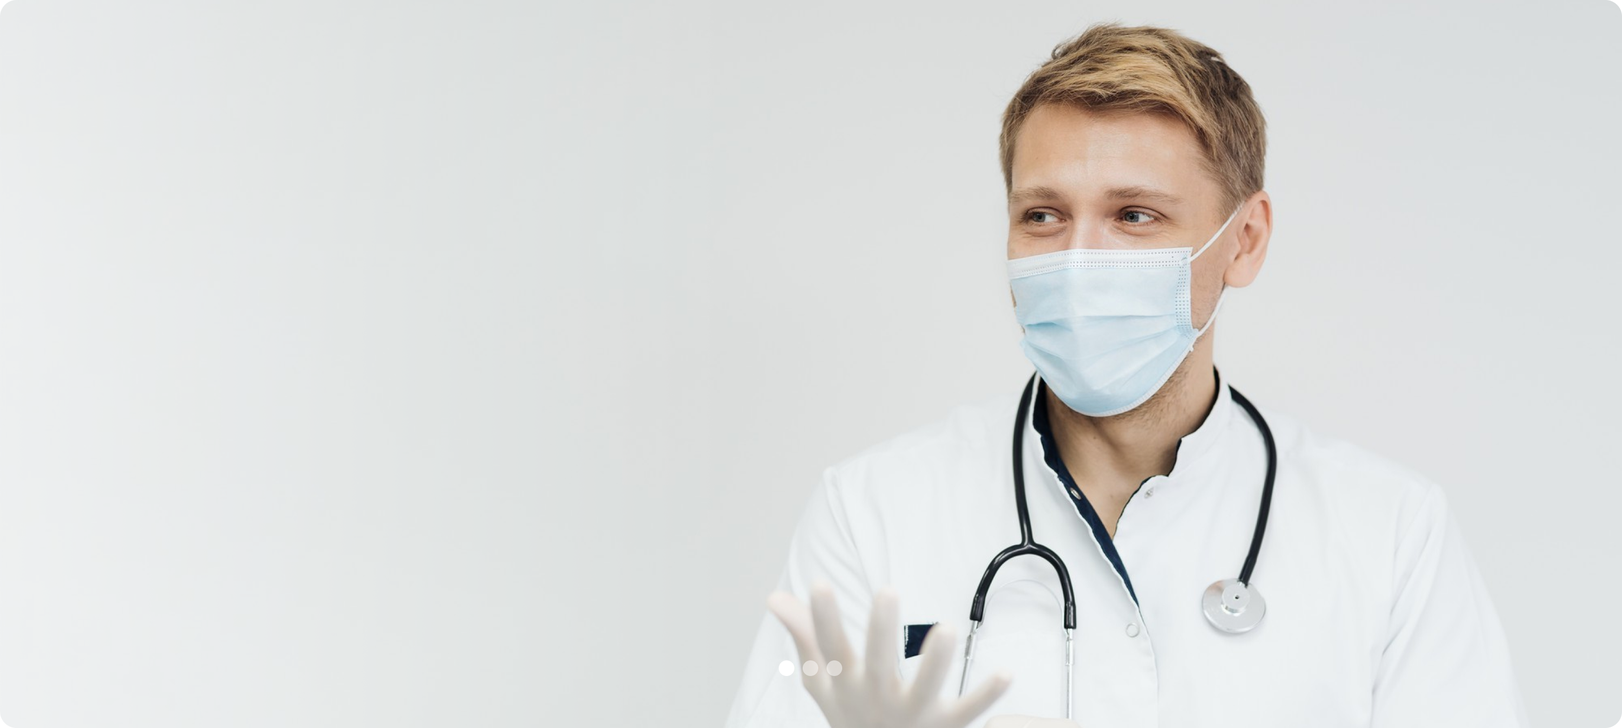
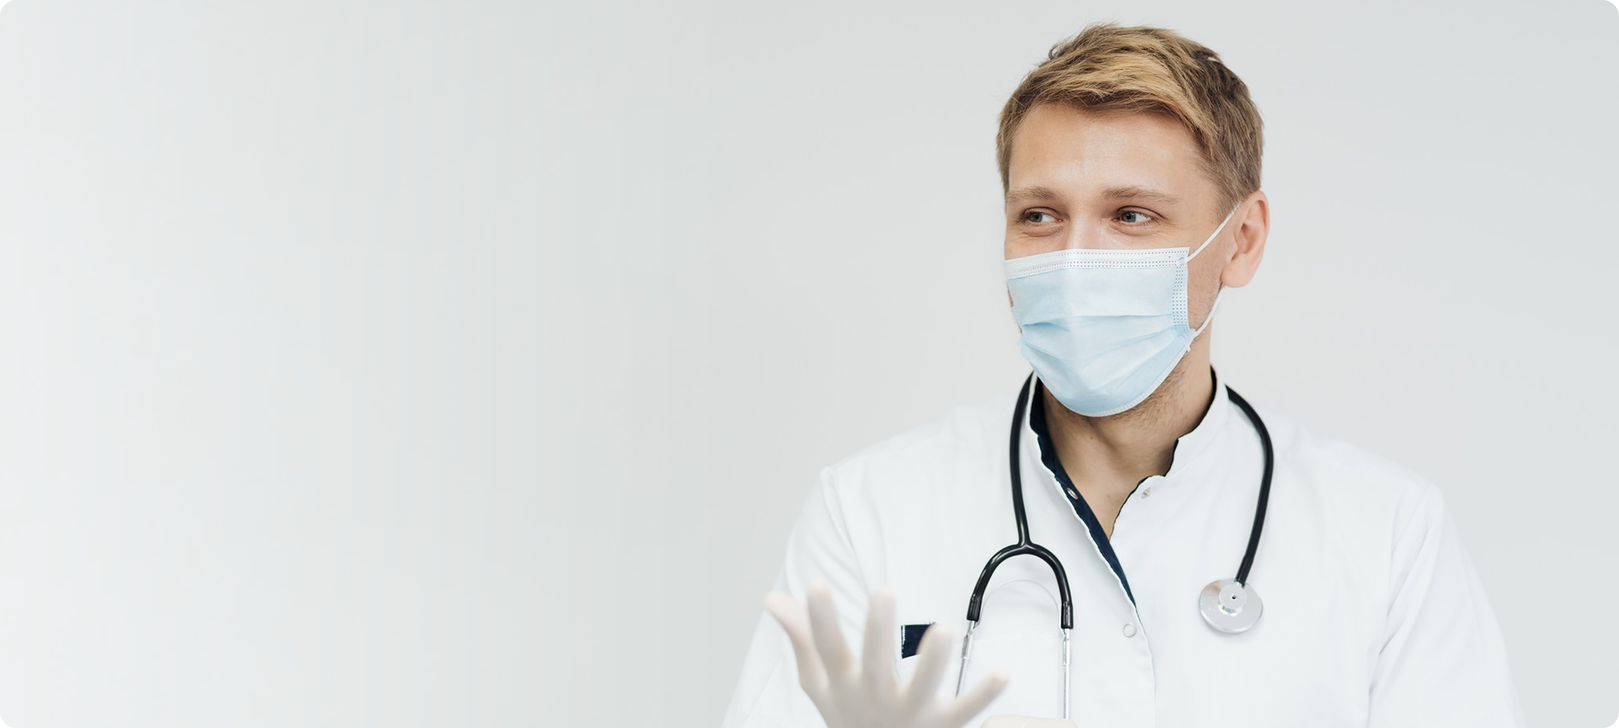
fix-build

diff --git a/src/shared/ui/Icon/MuscleIcon.tsx b/src/shared/ui/Icon/MuscleIcon.tsx
@@ -1,0 +1,34 @@
+export default function MuscleIcon({
+  color = '#094A54',
+  size = 80,
+  style = {},
+  ...props
+}) {
+  return (
+    <svg
+      width={size}
+      height={size}
+      viewBox="0 0 190 190"
+      fill="none"
+      xmlns="http://www.w3.org/2000/svg"
+      style={style}
+      {...props}
+    >
+      <g clipPath="url(#clip0)">
+        <path
+          d="M104.092 2.59843C95.5196 3.78593 87.838 4.97343 87.0216 5.19609C81.1954 6.94023 74.5528 12.0613 66.0548 21.3387C58.67 29.3914 51.5079 35.5887 35.6251 47.6492C22.1544 57.9285 17.961 61.7137 13.3966 67.9109C8.53525 74.4051 5.1583 83.1258 3.5626 93.034C3.26572 94.8894 2.41221 98.1551 1.70713 100.27C0.964942 102.423 0.259864 105.169 0.148536 106.393C-0.185448 109.362 0.630958 110.995 4.19346 114.966C5.67783 116.598 8.3126 119.901 10.0938 122.313C25.3458 143.28 46.3126 159.645 69.6173 168.774C87.6153 175.825 104.055 178.979 122.906 179.016L132.443 179.054L134.373 184.175C135.412 186.995 136.451 189.37 136.637 189.481C136.822 189.63 137.193 189.518 137.416 189.296C137.899 188.813 137.639 188.034 135.041 181.243L133.594 177.532H124.242C101.68 177.495 81.1212 172.819 61.4161 163.282C43.5294 154.598 27.4981 141.796 15.1778 126.358C10.9845 121.089 9.94541 119.604 10.7618 119.938C16.1056 122.239 18.7403 122.833 18.7403 121.72C18.7403 121.386 17.6642 120.829 15.7345 120.161C14.0646 119.604 11.6524 118.528 10.3536 117.786C7.42197 116.042 3.37705 112.071 2.26377 109.77C1.52158 108.175 1.48447 107.841 1.85557 105.762C2.85752 100.307 6.01182 93.7391 9.35166 90.1023C11.2442 88.0242 11.5782 87.2078 10.4278 87.2078C9.75986 87.2078 8.3126 88.618 6.23447 91.2527L5.26963 92.5144L5.5665 90.8445C7.97861 77.9305 13.6935 67.9109 23.4903 59.3758C25.3458 57.7059 31.2462 53.0672 36.5157 49.0594C52.7696 36.702 57.5567 32.5086 70.6935 19.0008C77.6329 11.8758 81.8634 8.72148 86.6876 7.08867C87.9864 6.64336 93.7755 5.67851 100.233 4.825C106.43 4.00859 112.553 3.15508 113.815 2.96953C123.834 1.37383 128.621 2.04179 131.998 5.53008C133.816 7.38554 134.67 9.24101 137.045 16.5145C139.828 25.0125 140.348 27.1648 140.422 30.4305C140.496 35.1434 138.9 36.7391 134.15 36.7391C131.924 36.7391 131.701 36.6648 131.924 36.0711C133.111 33.2508 133.334 31.8035 133.334 27.6473C133.334 23.4539 132.481 17.1824 131.738 15.9949C131.256 15.1414 130.143 15.8094 130.402 16.8113C131.293 20.3738 131.813 25.1238 131.664 28.7605C131.553 32.2117 131.404 33.1395 130.625 34.6609C129.326 37.2215 128.176 37.9637 125.244 38.1492L122.795 38.2977L123.945 36.5164C125.541 33.9187 126.209 30.2449 126.098 24.7527C125.986 20.7078 125.912 20.2254 125.318 20.2254C124.725 20.2254 124.65 20.7449 124.539 25.6062C124.391 31.8406 123.797 34.2527 121.904 36.2937C120.828 37.4812 120.457 37.6668 119.047 37.6297C118.156 37.6297 116.709 37.2215 115.818 36.7762L114.223 35.9227L115.15 34.9578C117.006 32.991 119.418 26.1258 119.047 23.6766C118.861 22.2664 117.859 22.6375 117.525 24.3074C116.783 27.9812 115.67 31.4695 114.817 32.7684C112.367 36.4793 108.656 36.5164 104.352 32.8055C102.83 31.5066 102.422 30.8016 103.201 30.8016C104.129 30.8016 109.844 28.0555 109.844 27.6102C109.844 26.6453 109.102 26.7566 105.428 28.2039C99.7872 30.4676 96.1876 31.284 92.588 31.0984C88.1349 30.8758 85.9825 29.5027 84.7579 26.1629C84.2013 24.6414 83.1251 24.4559 83.1251 25.866C83.1622 28.6121 86.7247 32.0262 90.1017 32.4715C92.9962 32.8797 92.9962 32.8426 90.2501 35.8855C80.9728 46.3133 76.8907 54.6629 72.92 71.4734C70.0255 83.7566 68.9493 86.9109 66.3517 90.9558C64.2735 94.1844 61.7501 96.7078 58.2989 99.0086C54.5138 101.532 50.9142 103.128 44.7169 105.02C41.3771 106.059 40.2267 106.542 40.1153 107.061C40.004 107.655 40.1896 107.692 41.6739 107.507C43.7149 107.21 50.2091 105.057 53.6231 103.536C55.0333 102.905 57.5938 101.458 59.2638 100.345C64.7931 96.6707 70.8048 95.2234 80.3419 95.2234C87.6153 95.2605 90.3985 95.8172 95.7423 98.3777C104.315 102.46 110.363 109.696 114.668 120.977C115.559 123.278 116.227 124.54 116.635 124.614C117.08 124.688 117.266 124.503 117.266 123.946C117.266 122.796 114.854 116.747 112.998 113.333L111.365 110.29L114.223 108.991C120.68 106.059 127.359 104.575 134.15 104.575C146.1 104.538 156.231 108.917 165.916 118.268C168.106 120.384 170.592 123.055 171.445 124.169C172.967 126.136 173.746 126.581 174.229 125.802C174.563 125.245 172.113 122.165 168.254 118.268C165.731 115.708 165.137 114.891 165.545 114.632C167.883 113.073 176.492 108.397 181.65 105.874C185.139 104.167 188.367 102.571 188.85 102.311C189.963 101.755 190.26 101.012 189.481 100.716C188.738 100.419 176.604 106.319 169.293 110.512C166.399 112.182 163.838 113.555 163.652 113.555C163.467 113.555 162.02 112.628 160.424 111.477C146.656 101.569 129.438 100.159 113.332 107.618L110.326 108.991L109.733 108.026C106.43 102.571 97.7091 96.5223 90.3614 94.5926C84.5353 93.034 74.4415 93.2195 67.5763 95.0008L64.9415 95.6687L66.0177 94.3328C69.506 89.8426 70.9903 86.0574 74.0333 73.5516C75.4063 68.0965 77.0021 62.1219 77.6329 60.3035C80.4903 51.9168 85.2403 43.9383 91.5489 36.9246L95.2228 32.8426L98.0802 32.2488L100.938 31.6922L102.311 33.1023C105.242 36.1082 109.176 37.8523 111.514 37.1844C112.404 36.9246 113.035 37.073 114.705 37.9637C118.416 39.8562 125.912 40.45 128.807 39.0398C130.217 38.3719 130.848 38.2605 132.74 38.4461C137.268 38.9285 140.83 37.1473 141.721 33.9559C142.723 30.282 142.055 26.4598 138.566 15.8836C135.412 6.34648 134.002 4.15703 129.697 1.96758C127.693 0.965622 124.762 0.371872 121.979 0.408981C120.717 0.446091 112.664 1.41093 104.092 2.59843Z"
+          fill={color}
+        />
+        <path
+          d="M46.2013 141.424C45.8302 142.018 46.9064 143.02 50.8028 145.617C57.631 150.182 65.3497 153.447 72.9942 155.006C77.3731 155.896 88.6173 155.896 92.9591 155.006C97.3009 154.115 103.572 152.074 103.795 151.48C104.24 150.404 103.275 150.33 100.567 151.258C89.0255 155.191 75.5548 155.08 64.4591 150.887C60.4884 149.402 54.1056 145.988 50.4689 143.391C46.9435 140.941 46.6095 140.756 46.2013 141.424Z"
+          fill={color}
+        />
+      </g>
+      <defs>
+        <clipPath id="clip0">
+          <rect width="190" height="190" fill="white" />
+        </clipPath>
+      </defs>
+    </svg>
+  );
+}

diff --git a/src/shared/ui/Icon/PacifierIcon.tsx b/src/shared/ui/Icon/PacifierIcon.tsx
@@ -1,0 +1,31 @@
+export default function PacifierIcon({
+  color = '#094A54',
+  size = 80,
+  style = {},
+  ...props
+}) {
+  return (
+    <svg
+      width={size}
+      height={size}
+      viewBox="0 0 190 190"
+      fill="none"
+      xmlns="http://www.w3.org/2000/svg"
+      style={style}
+      {...props}
+    >
+      <path
+        d="M138.232 6.30783C132.035 7.27267 124.873 10.1672 119.566 13.8039C115.521 16.5871 110.363 21.8938 107.506 26.1985C103.09 32.841 101.531 37.591 98.9706 51.9153L98.4881 54.6613L96.6327 51.7297C93.8866 47.4621 91.66 43.3801 89.5819 38.9641C85.0174 29.093 80.2674 22.7844 74.6639 19.0363C70.953 16.5871 63.4198 14.4719 58.3729 14.4719C55.4042 14.4719 50.951 15.4738 48.3534 16.7727C43.826 18.9992 40.0409 24.1574 38.4081 30.4289C37.5546 33.6203 37.2577 42.6008 37.8143 46.9797C38.7421 53.882 42.2303 66.3137 45.7186 75.1457C47.7967 80.4153 50.8397 86.8352 53.6229 91.9934C54.9588 94.4055 56.035 96.4836 56.035 96.5578C56.035 96.632 54.5878 96.4094 52.8065 96.0383C48.7245 95.2219 41.1171 95.1477 36.7381 95.927C26.2733 97.7824 16.3651 103.609 9.98229 111.698C-1.0392 125.652 -3.04311 143.65 4.67564 159.31C15.4374 181.204 42.5272 190.333 64.3104 179.386C74.1073 174.45 81.6034 166.286 85.6854 156.007C87.8006 150.738 88.7655 145.654 88.7655 139.642L88.8026 134.78L92.7362 137.749C108.916 149.995 128.584 159.347 144.541 162.39C149.217 163.28 157.789 163.318 161.055 162.427C170.963 159.755 176.381 152.185 175.156 142.722C174.043 133.964 169.07 126.95 157.715 118.081C152.445 113.962 147.25 109.509 142.314 104.907L139.346 102.124L140.459 101.679C141.053 101.456 144.058 100.677 147.139 99.9719C172.187 94.257 185.027 82.9758 189.146 63.0852C190.074 58.5949 190.074 47.7961 189.146 43.4172C185.213 24.8625 172.855 11.8371 154.783 7.16135C150.775 6.12228 142.24 5.71408 138.232 6.30783ZM152.482 8.34885C161.277 10.0188 170.74 15.2883 176.455 21.5969C184.322 30.3547 188.256 40.8938 188.219 53.2512C188.182 72.0285 180.017 85.1653 163.541 92.9582C159.051 95.1106 154.449 96.5949 146.953 98.3391C134.558 101.234 127.471 104.648 119.64 111.587C117.265 113.702 116.82 114.519 117.822 114.89C118.156 115.038 119.344 114.222 121.051 112.626C125.17 108.804 132.035 104.573 136.303 103.2L137.676 102.718L142.24 106.986C147.695 112.107 150.998 114.927 157.269 119.788C162.131 123.611 166.695 128.064 168.81 131.107C175.045 140.198 175.267 150.255 169.293 156.193C165.619 159.792 160.646 161.462 153.41 161.462C143.242 161.499 132.109 158.234 117.08 150.849C98.1171 141.497 82.0116 128.546 68.8378 112.07C54.996 94.7395 43.4549 69.9133 39.8553 49.7258C38.9647 44.716 38.9647 35.6613 39.8553 31.7278C41.2284 25.7531 44.2713 20.9289 48.1678 18.6281C54.4393 14.9543 66.6483 15.7707 73.4764 20.2981C79.1542 24.0832 83.6444 29.9836 87.9491 39.3352C90.0643 43.9738 92.6991 48.7238 95.6307 53.2141C98.3397 57.3332 98.2655 56.7766 96.41 62.7141C94.6659 68.1692 92.2909 72.511 89.4335 75.4055C87.6522 77.1867 86.5389 77.966 85.4256 78.2629C84.2753 78.5969 83.8671 78.8938 83.8671 79.4133C83.8671 80.2668 84.7948 80.3781 86.3534 79.7102C92.7362 76.9641 97.4862 68.132 100.195 53.9563C103.609 36.2551 105.205 31.6906 110.4 24.8625C112.553 22.0422 118.082 16.8098 120.902 14.8801C126.06 11.3918 133.519 8.5715 139.531 7.82932C143.019 7.384 148.549 7.60666 152.482 8.34885ZM54.0311 97.9309L57.4452 98.7473L60.5624 103.46C66.871 112.923 74.7753 122.2 82.3827 129.066C87.2811 133.482 87.1698 133.222 87.1698 139.753C87.244 151.331 82.7909 161.907 74.4042 170.183C63.0487 181.353 45.9042 185.286 30.8749 180.202C6.56822 171.927 -5.0099 144.837 5.78893 121.421C7.64439 117.376 10.1678 113.777 13.8417 109.954C20.7811 102.792 29.0936 98.5988 39.5213 97.0774C42.3788 96.6692 50.7655 97.1516 54.0311 97.9309Z"
+        fill={color}
+      />
+      <path
+        d="M47.7597 39.1863C46.9433 40.0398 47.8339 50.282 49.3554 57.3328C53.0293 74.2547 65.3496 98.3387 78.1523 113.554C81.4179 117.413 88.9511 124.909 92.9589 128.212C106.059 139.122 121.978 147.026 137.008 150.106C142.982 151.331 152.223 152.11 153.039 151.442C153.336 151.182 153.484 150.737 153.373 150.44C153.225 150.032 152.371 149.921 149.662 149.921C133.668 149.921 112.738 141.682 96.5585 129.028C91.8085 125.317 84.1269 117.97 80.1933 113.405C67.5761 98.6727 55.9609 76.7781 51.582 59.3738C50.0976 53.4363 49.7265 51.0984 49.207 44.7527C48.8359 39.6688 48.5019 38.4441 47.7597 39.1863Z"
+        fill={color}
+      />
+      <path
+        d="M48.5388 104.907C47.3884 106.206 45.6814 109.694 44.9021 112.292L44.1228 114.927L40.7087 115.149C33.5095 115.557 27.4607 119.194 23.4157 125.429C21.2263 128.805 20.3728 131.663 20.1501 136.19C19.9275 140.755 20.4841 143.501 22.4138 147.509C26.4958 155.821 36.4411 161.054 45.4216 159.569C55.8493 157.899 63.197 150.477 64.6443 140.272C65.4236 134.743 63.3083 126.171 61.5642 127.915C61.3786 128.1 61.5271 129.102 62.0466 130.438C62.9001 132.813 63.3825 138.454 62.9372 140.829C62.6404 142.388 62.5661 142.388 58.2614 140.346C54.8103 138.677 50.1345 134.186 48.3532 130.809C44.7907 124.018 44.531 116.634 47.5368 109.917C48.0935 108.655 48.9099 107.134 49.3181 106.54C50.654 104.684 49.9489 103.311 48.5388 104.907ZM43.9001 120.307C44.2341 126.95 46.3493 131.96 50.7282 136.561C53.7712 139.827 56.5173 141.571 61.5271 143.464L62.3435 143.798L61.0446 146.544C60.0798 148.548 59.0036 149.995 57.0368 151.925C52.3982 156.526 47.7224 158.307 41.1911 157.973C23.7868 157.12 15.2146 136.264 27.0525 123.499C31.0974 119.083 36.1443 116.708 41.7849 116.559L43.6775 116.522L43.9001 120.307Z"
+        fill={color}
+      />
+    </svg>
+  );
+}

diff --git a/src/shared/ui/Icon/CandleIconV2.tsx b/src/shared/ui/Icon/CandleIconV2.tsx
@@ -1,0 +1,27 @@
+export default function CandleIconV2({
+  color = '#094A54',
+  size = 80,
+  style = {},
+  ...props
+}) {
+  return (
+    <svg
+      width={size}
+      height={size}
+      viewBox="0 0 90 90"
+      fill="none"
+      xmlns="http://www.w3.org/2000/svg"
+      style={style}
+      {...props}
+    >
+      <path
+        d="M38.172 8.28125C37.8439 8.48438 37.6251 8.78125 37.5001 9.17188C37.422 9.5 37.2345 12.2969 37.1095 15.3906C36.9689 19.0156 36.797 21.3438 36.6564 21.9531C36.047 24.4375 34.7814 26.2656 32.797 27.4688C30.8282 28.6562 29.2189 32.125 29.2189 35.1562C29.2189 36.2812 29.1876 36.3594 28.8282 36.5312C28.3126 36.7656 28.2189 37.2344 28.3282 39.125C28.5157 42.6719 30.0939 45.4531 32.5782 46.6406C33.9064 47.2656 35.5157 47.5781 37.5001 47.5781C39.1407 47.5781 39.3751 47.5469 40.2189 47.1406C40.7189 46.9062 41.5782 46.3906 42.1251 46C43.4064 45.0938 44.0314 44.8438 45.0001 44.8438C45.9689 44.8438 46.5939 45.0938 47.8751 46C48.422 46.3906 49.2814 46.9062 49.7814 47.1406C50.6251 47.5469 50.8595 47.5781 52.5001 47.5781C57.1876 47.5781 59.9688 45.7812 61.1876 41.9844C61.7032 40.3594 61.9063 37.4219 61.5313 36.8438C61.4063 36.6406 61.2501 36.0156 61.1876 35.4531C60.9532 33.0938 59.9689 30.4531 58.7814 28.9531C58.422 28.5 57.6095 27.7812 56.9689 27.3594C55.5157 26.375 54.797 25.5469 54.047 23.9844C53.172 22.1406 53.0157 21.0781 52.8126 15.0781C52.7189 12.1562 52.5626 9.54688 52.4845 9.26562C52.3907 8.98438 52.1095 8.57812 51.8595 8.35938L51.3751 7.96875H45.0314C39.0001 7.96875 38.6407 7.98438 38.172 8.28125ZM51.2657 9.3125C51.4064 9.48438 51.5157 10.9062 51.6564 14.5781C51.8907 20.5781 51.9376 21.25 52.2657 22.5312C52.8907 24.9688 54.2032 26.8281 56.3751 28.3281C57.1564 28.8594 57.7501 29.4375 58.1407 30C59.047 31.3125 59.797 33.4531 60.0782 35.4219L60.1876 36.25H59.6407C58.8439 36.25 56.6876 35.8125 55.3282 35.3906C53.7657 34.8906 52.0939 34.0156 49.7501 32.4844C45.9064 29.9688 44.0939 29.9688 40.1876 32.5156C36.9376 34.6562 35.0939 35.4531 32.2032 36C30.2189 36.375 30.3126 36.4062 30.3126 35.2656C30.3126 33.9062 30.6876 32.3125 31.297 31.0156C31.9845 29.5938 32.4532 29.0469 33.8439 28.1094C35.7501 26.8281 37.1407 24.75 37.7345 22.3125C37.9532 21.4531 38.422 13.3125 38.4376 10.3594C38.4376 8.98438 38.0782 9.0625 44.9845 9.0625C50.3282 9.0625 51.0782 9.09375 51.2657 9.3125ZM46.6876 32C47.0939 32.1562 48.2032 32.8281 49.1564 33.4844C51.172 34.875 53.1564 35.8906 54.9689 36.4688C56.3282 36.8906 58.5939 37.3438 59.4376 37.3438C60.5157 37.3438 60.6251 37.4531 60.6251 38.4688C60.6251 40.7344 59.7501 43.1875 58.4689 44.5C57.5314 45.4531 56.6407 45.875 54.7345 46.2812C52.047 46.8281 50.3595 46.5 48.4064 45.0156C47.0939 44.0312 46.3439 43.75 45.0001 43.75C43.6564 43.75 42.9064 44.0312 41.5939 45.0156C41.1407 45.375 40.3595 45.8438 39.8751 46.0625C39.0939 46.4375 38.797 46.4844 37.422 46.4688C33.797 46.4375 31.5001 45.25 30.3282 42.7656C29.7814 41.625 29.3751 39.7656 29.3751 38.4531V37.5156L30.1251 37.4375C34.5782 36.8906 37.297 35.9062 40.7814 33.5156C41.7032 32.8906 42.8282 32.2344 43.297 32.0625C44.3595 31.6562 45.7032 31.625 46.6876 32Z"
+        fill={color}
+      />
+      <path
+        d="M30.6406 48.6563C30.5469 48.7656 30.3125 49.4219 30.125 50.0938C29.6406 51.9219 29.6406 54.6563 30.125 56.25C30.7969 58.3438 31.4687 59.4531 34.2812 63.0938C37.2344 66.8906 38.3125 68.8594 39.0781 71.7188C39.375 72.8125 39.4375 73.4844 39.4375 75.4688C39.4531 76.7969 39.3906 78.5625 39.3125 79.3906L39.1719 80.8906L39.6562 81.4219L40.125 81.9531L44.9219 82L49.7031 82.0469L50.2187 81.5313L50.7344 81.0156L50.8281 78.4375C50.9687 74.3594 51.8125 71.6094 55.3125 63.9063C57.1406 59.8906 58.1094 57.4688 58.6562 55.5156C59.4219 52.8438 59.8906 49.1094 59.5312 48.6719C59.2344 48.3125 58.8437 48.3906 58.3437 48.9219C57.1875 50.1563 54.9219 50.8125 51.7969 50.8281C49.7969 50.8438 49.4531 50.8125 47.7656 50.3438C45.5 49.7344 44.5 49.7031 42.8125 50.25C38.9844 51.4531 33.0469 50.7344 31.6875 48.9063C31.3281 48.4063 30.9219 48.3125 30.6406 48.6563ZM34.2969 51.4844C37.0781 52.2031 40.4219 52.1406 43.1094 51.3281C43.8437 51.1094 44.6719 50.9375 44.9687 50.9375C45.2812 50.9375 46.5781 51.1875 47.875 51.5C50.1406 52.0469 50.3125 52.0625 52.2656 51.9844C54.5781 51.875 56.3125 51.5 57.5937 50.7969L58.4375 50.3438V50.9531C58.4375 51.7188 58.0781 53.5 57.5625 55.2813C57 57.2188 56.125 59.4219 54.3281 63.3594C50.7344 71.2813 49.6875 74.75 49.6875 78.6563C49.6875 79.9375 49.625 80.625 49.5 80.75C49.3594 80.8906 48.1406 80.9375 44.9844 80.9375C41.2656 80.9375 40.6406 80.9063 40.4531 80.6875C40.2969 80.5 40.2969 80.1406 40.4375 78.8594C41.125 72.9844 39.9531 68.7188 36.4219 64.0781C35.7656 63.2188 34.7031 61.8281 34.0625 60.9844C31.6562 57.8438 30.875 55.9688 30.875 53.3594C30.875 52.5 30.9687 51.4375 31.0781 51L31.2656 50.2031L32.3125 50.7188C32.8906 51.0156 33.7812 51.3594 34.2969 51.4844Z"
+        fill={color}
+      />
+    </svg>
+  );
+}

diff --git a/src/shared/ui/Icon/PencilRulerIconV2.tsx b/src/shared/ui/Icon/PencilRulerIconV2.tsx
@@ -1,0 +1,47 @@
+export default function PencilRulerIconV2({
+  color = '#094A54',
+  size = 80,
+  style = {},
+  ...props
+}) {
+  return (
+    <svg
+      width={size}
+      height={size}
+      viewBox="0 0 90 90"
+      fill="none"
+      xmlns="http://www.w3.org/2000/svg"
+      style={style}
+      {...props}
+    >
+      <path
+        opacity="0.854"
+        fillRule="evenodd"
+        clipRule="evenodd"
+        d="M71.0046 13.656C71.2127 13.6264 71.4104 13.6594 71.5979 13.7549C73.1886 15.2794 74.7046 16.8614 76.1462 18.501C74.548 21.1372 73.1307 23.8727 71.8945 26.7078C71.4332 27.3669 70.9716 28.0262 70.5103 28.6853C62.699 36.4966 54.8877 44.3078 47.0764 52.1191C45.4823 53.2461 43.7684 54.1688 41.9348 54.8877C35.7386 61.0839 29.5422 67.2803 23.346 73.4765C21.4744 74.4398 19.6946 74.2751 18.0066 72.9822C16.9219 73.968 15.8671 74.9898 14.8425 76.0473C14.3986 76.0088 14.036 75.778 13.7549 75.3552C13.623 75.2233 13.623 75.0916 13.7549 74.9597C14.8125 73.9351 15.8343 72.8803 16.8201 71.7956C15.5764 70.1001 15.4117 68.3203 16.3257 66.4563C22.5219 60.2601 28.7183 54.0636 34.9146 47.8674C35.6334 46.0338 36.5561 44.3199 37.6831 42.7258C45.5602 34.8487 53.4376 26.9714 61.3147 19.0942C64.671 17.4798 67.9009 15.6671 71.0046 13.656ZM70.8069 15.6335C72.044 16.5402 73.1645 17.5951 74.1687 18.7976C73.6085 19.7864 73.048 20.7751 72.4878 21.7639C71.0046 20.2807 69.5215 18.7976 68.0383 17.3144C69.0067 16.7987 69.9295 16.2385 70.8069 15.6335ZM66.4563 18.0066C68.2622 19.7134 70.042 21.4602 71.7957 23.2471C71.2321 24.605 70.5399 25.8904 69.7192 27.1033C61.6386 35.5135 53.3658 43.7203 44.9011 51.7236C43.8884 52.2465 42.8666 52.7409 41.8359 53.2068C40.0892 51.46 38.3422 49.7131 36.5955 47.9663C37.1428 46.7066 37.7691 45.4871 38.4741 44.3078C46.6208 35.8317 54.9593 27.5589 63.49 19.4897C64.497 18.9863 65.4857 18.4919 66.4563 18.0066ZM35.4089 49.4494C37.1053 50.8484 38.7203 52.3643 40.2539 53.9978C40.3858 54.1297 40.3858 54.2614 40.2539 54.3933C34.5849 60.0623 28.9161 65.7311 23.2471 71.4001C21.632 69.7851 20.0172 68.1702 18.4021 66.5552C24.1109 60.8794 29.7799 55.1774 35.4089 49.4494ZM17.2156 68.0383C18.8486 69.3413 20.3648 70.7914 21.7639 72.3889C19.7431 72.5797 18.3258 71.7229 17.5122 69.8181C17.285 69.246 17.1861 68.6527 17.2156 68.0383Z"
+        fill={color}
+      />
+      <path
+        opacity="0.864"
+        fillRule="evenodd"
+        clipRule="evenodd"
+        d="M57.5574 27.6965C59.0995 29.1397 60.6156 30.6229 62.1057 32.146C60.2901 33.9946 58.4445 35.8072 56.5686 37.5842C55.0524 36.2 53.6023 34.7498 52.218 33.2336C54.002 31.3839 55.7817 29.5382 57.5574 27.6965ZM57.5574 29.8718C56.5429 30.9854 55.4881 32.073 54.3933 33.1348C55.1513 33.8928 55.9095 34.6509 56.6675 35.4089C57.7551 34.3213 58.8428 33.2336 59.9304 32.146C59.1653 31.3477 58.3743 30.5897 57.5574 29.8718Z"
+        fill={color}
+      />
+      <path
+        opacity="0.807"
+        fillRule="evenodd"
+        clipRule="evenodd"
+        d="M51.2292 35.6067C52.3343 36.3813 53.3231 37.3042 54.1956 38.3752C51.6906 41.0119 49.1198 43.5827 46.4832 46.0876C45.4944 45.2308 44.5715 44.3079 43.7146 43.3191C46.2237 40.7441 48.7286 38.1733 51.2292 35.6067ZM51.427 37.782C49.7202 39.5879 47.9734 41.3677 46.1865 43.1213C46.0876 43.5499 46.2524 43.7146 46.6809 43.6157C48.4607 41.8359 50.2405 40.0562 52.0203 38.2764C51.8476 38.0697 51.6499 37.905 51.427 37.782Z"
+        fill={color}
+      />
+      <path
+        opacity="0.847"
+        fillRule="evenodd"
+        clipRule="evenodd"
+        d="M33.2337 55.3821C33.8562 55.5747 34.2187 55.9702 34.3213 56.5686C32.4427 58.4473 30.564 60.3259 28.6854 62.2046C28.2414 62.166 27.8789 61.9352 27.5977 61.5125C27.4658 61.3805 27.4658 61.2488 27.5977 61.1169C29.5163 59.2314 31.395 57.3197 33.2337 55.3821Z"
+        fill={color}
+      />
+    </svg>
+  );
+}

diff --git a/src/shared/ui/Icon/DocumentPenIconV2.tsx b/src/shared/ui/Icon/DocumentPenIconV2.tsx
@@ -1,0 +1,54 @@
+export default function DocumentPenIconV2({
+  color = '#094A54',
+  size = 80,
+  style = {},
+  ...props
+}) {
+  return (
+    <svg
+      width={size}
+      height={size}
+      viewBox="0 0 90 90"
+      fill="none"
+      xmlns="http://www.w3.org/2000/svg"
+      style={style}
+      {...props}
+    >
+      <path
+        opacity="0.917"
+        fillRule="evenodd"
+        clipRule="evenodd"
+        d="M73.5645 2.9004C81.0333 2.63272 85.926 6.03117 88.2422 13.0957C89.4205 18.971 87.692 23.805 83.0567 27.5977C69.9316 39.4335 56.8067 51.2696 43.6817 63.1055C43.1264 63.6472 42.482 64.0575 41.7481 64.3359C41.045 64.4532 40.3418 64.4532 39.6387 64.3359C39.1054 64.0944 38.5781 63.9186 38.0567 63.8086C33.457 69.1114 28.8575 74.414 24.2579 79.7168C21.4883 82.7278 18.1776 84.925 14.3262 86.3086C10.3099 87.5333 6.55991 87.0059 3.07622 84.7266C1.33337 83.4066 0.83532 81.7367 1.58208 79.7168C10.2491 70.874 18.9795 62.0849 27.7735 53.3496C27.6133 52.9054 27.4376 52.4366 27.2461 51.9434C26.9652 50.6547 27.1996 49.4828 27.9493 48.4277C40.6554 34.4111 53.3409 20.378 66.0059 6.32813C68.22 4.48763 70.7397 3.34506 73.5645 2.9004ZM73.2129 4.48243C79.5894 4.04228 84.0133 6.7376 86.4844 12.5684C87.9172 17.4721 86.8334 21.7201 83.2325 25.3125C69.469 37.6107 55.758 49.9741 42.0997 62.4024C41.2484 62.9007 40.3694 62.9592 39.4629 62.5781C35.9767 59.0919 32.4902 55.6054 29.004 52.1192C28.4181 51.2988 28.4181 50.4786 29.004 49.6582C41.8003 35.3967 54.6617 21.1876 67.5879 7.03126C69.2851 5.75419 71.1602 4.90457 73.2129 4.48243ZM28.9161 54.4043C31.6053 57.0055 34.2712 59.6422 36.9141 62.3145C31.9005 68.6222 26.5977 74.7454 21.0059 80.6836C18.3924 83.0451 15.3454 84.5686 11.8653 85.2539C8.46863 85.8597 5.56824 84.9514 3.16411 82.5293C2.68027 81.8555 2.62169 81.1524 2.98833 80.4199C11.6663 71.7713 20.3089 63.0993 28.9161 54.4043Z"
+        fill={color}
+      />
+      <path
+        opacity="0.892"
+        fillRule="evenodd"
+        clipRule="evenodd"
+        d="M45.2637 37.3535C45.4486 37.3273 45.6244 37.3565 45.791 37.4414C48.5742 40.2246 51.3575 43.0079 54.1406 45.791C54.094 46.3746 53.8012 46.8434 53.2617 47.1973C50.3028 44.2384 47.3437 41.2792 44.3848 38.3203C44.714 38.0208 45.007 37.6986 45.2637 37.3535Z"
+        fill={color}
+      />
+      <path
+        opacity="0.885"
+        fillRule="evenodd"
+        clipRule="evenodd"
+        d="M40.5176 42.0996C40.7675 42.1363 41.0019 42.2242 41.2207 42.3633C43.9406 45.0831 46.6652 47.8078 49.3945 50.5371C49.3479 51.1207 49.0551 51.5895 48.5156 51.9434C45.5567 48.9844 42.5976 46.0253 39.6387 43.0664C39.9679 42.7669 40.2609 42.4447 40.5176 42.0996Z"
+        fill={color}
+      />
+      <path
+        opacity="0.956"
+        fillRule="evenodd"
+        clipRule="evenodd"
+        d="M35.7715 46.8457C35.9564 46.8195 36.1322 46.8487 36.2988 46.9336C39.082 49.7167 41.8653 52.5001 44.6484 55.2832C44.6019 55.8668 44.309 56.3356 43.7695 56.6895C40.8106 53.7305 37.8515 50.7714 34.8926 47.8125C35.2218 47.513 35.5148 47.1908 35.7715 46.8457Z"
+        fill={color}
+      />
+      <path
+        opacity="0.934"
+        fillRule="evenodd"
+        clipRule="evenodd"
+        d="M23.6425 64.7754C26.2819 65.0749 27.19 66.4812 26.3671 68.9941C23.3546 72.1825 20.2784 75.3173 17.1386 78.3984C15.0679 79.7391 13.5152 79.2997 12.4804 77.0801C12.2855 76.1752 12.4613 75.3548 13.0078 74.6191C16.0839 71.543 19.1601 68.4668 22.2363 65.3906C22.7035 65.1308 23.1723 64.9257 23.6425 64.7754ZM23.4668 66.3574C20.3674 69.5447 17.2327 72.7087 14.0625 75.8496C13.8545 77.3712 14.4698 77.8693 15.9082 77.3438C18.9258 74.3261 21.9433 71.3087 24.9609 68.291C25.3712 66.9709 24.8732 66.3263 23.4668 66.3574Z"
+        fill={color}
+      />
+    </svg>
+  );
+}

diff --git a/src/shared/ui/Icon/NotesIcon.tsx b/src/shared/ui/Icon/NotesIcon.tsx
@@ -1,0 +1,33 @@
+export default function NotesIcon({
+  color = '#094A54',
+  size = 80,
+  style = {},
+  ...props
+}) {
+  return (
+    <svg
+      width={size}
+      height={size}
+      viewBox="0 0 90 90"
+      fill="none"
+      xmlns="http://www.w3.org/2000/svg"
+      style={style}
+      {...props}
+    >
+      <path
+        opacity="0.949"
+        fillRule="evenodd"
+        clipRule="evenodd"
+        d="M67.7637 12.3918C70.0061 11.8923 71.4415 12.7126 72.0703 14.8527C72.1582 25.0479 72.1875 35.2432 72.1582 45.4387C77.4132 44.806 79.5813 47.1204 78.6621 52.382C78.6327 53.6418 78.6036 54.9015 78.5742 56.1613C78.3642 57.7279 77.5144 58.7532 76.0254 59.2375C74.7376 59.3254 73.4486 59.3546 72.1582 59.3254C72.1875 64.3648 72.1582 69.4038 72.0703 74.4426C71.7198 75.8478 70.8702 76.8146 69.5215 77.343C50.9472 77.4602 32.3731 77.4602 13.7988 77.343C12.2923 76.774 11.4427 75.6899 11.25 74.091C11.1328 58.6808 11.1328 43.2707 11.25 27.8605C11.5154 25.6619 12.7166 24.285 14.8535 23.7297C32.5201 19.9799 50.1569 16.2006 67.7637 12.3918ZM68.6426 13.6222C69.68 13.5766 70.3538 14.0453 70.6641 15.0285C70.7813 19.3645 70.7813 23.7003 70.6641 28.0363C70.2591 27.7607 69.8196 27.5556 69.3457 27.4211C67.7062 27.3332 66.0654 27.304 64.4238 27.3332C64.4532 24.9301 64.4238 22.5279 64.3359 20.1262C47.1277 22.8921 29.9303 25.5288 12.7441 28.0363C12.8433 26.6116 13.605 25.6448 15.0293 25.1359C32.9286 21.3195 50.7995 17.4816 68.6426 13.6222ZM61.9629 21.884C62.3144 21.884 62.666 21.884 63.0176 21.884C63.0176 23.7003 63.0176 25.5168 63.0176 27.3332C51.2401 27.3625 39.4627 27.3332 27.6855 27.2453C39.1423 25.4959 50.568 23.7088 61.9629 21.884ZM15.0293 28.5637C33.0824 28.4777 51.1293 28.5656 69.1699 28.8273C69.9718 29.1133 70.4698 29.67 70.6641 30.4972C70.7519 35.4773 70.7813 40.4579 70.7519 45.4387C64.3649 45.4093 57.9783 45.4387 51.5918 45.5265C50.4076 45.8317 49.6165 46.5642 49.2187 47.7238C49.0212 49.264 48.9333 50.8167 48.9551 52.382C48.9844 53.7589 49.0136 55.136 49.043 56.5129C49.3307 57.8555 50.1217 58.7638 51.416 59.2375C57.861 59.3254 64.3064 59.3547 70.7519 59.3254C70.7813 64.3061 70.7519 69.2867 70.6641 74.2668C70.4865 75.0302 70.0471 75.5869 69.3457 75.9367C51.1305 76.2281 32.908 76.2867 14.6777 76.1125C13.6121 75.9258 12.9383 75.3106 12.6563 74.2668C12.5391 59.7355 12.5391 45.2043 12.6563 30.673C13.0489 29.4877 13.8399 28.7846 15.0293 28.5637ZM51.9434 46.8449C59.8537 46.8156 67.7638 46.8449 75.6738 46.9328C76.4822 47.2137 76.9802 47.7704 77.168 48.6027C77.3353 51.3099 77.2768 54.0054 76.9922 56.6887C76.6211 57.4698 76.0059 57.9093 75.1465 58.007C67.3455 58.1791 59.5524 58.1206 51.7676 57.8312C51.1374 57.4944 50.6979 56.9964 50.4492 56.3371C50.332 53.7004 50.332 51.0637 50.4492 48.4269C50.7505 47.6869 51.2485 47.1596 51.9434 46.8449Z"
+        fill={color}
+      />
+      <path
+        opacity="0.956"
+        fillRule="evenodd"
+        clipRule="evenodd"
+        d="M69.7473 48.7797C72.386 48.5774 73.9095 49.7785 74.3176 52.3832C73.7942 55.424 72.0363 56.5373 69.0442 55.723C66.9745 54.3889 66.4764 52.6017 67.5501 50.3617C68.13 49.5914 68.8624 49.0641 69.7473 48.7797ZM69.9231 50.1859C69.5069 50.4115 69.1259 50.7045 68.7805 51.0648C67.9988 52.5189 68.321 53.6615 69.7473 54.4926C71.0384 54.8858 72.0052 54.5049 72.6477 53.35C73.1009 51.1591 72.1928 50.1044 69.9231 50.1859Z"
+        fill={color}
+      />
+    </svg>
+  );
+}

diff --git a/src/shared/ui/Icon/BrainTechIcon.tsx b/src/shared/ui/Icon/BrainTechIcon.tsx
@@ -1,0 +1,33 @@
+export default function BrainTechIcon({
+  color = 'white',
+  size = 80,
+  style = {},
+  ...props
+}) {
+  return (
+    <svg
+      width={size}
+      height={(size * 80) / 81} // сохраняем пропорции исходной иконки
+      viewBox="0 0 81 80"
+      fill="none"
+      xmlns="http://www.w3.org/2000/svg"
+      style={style}
+      {...props}
+    >
+      <g clipPath="url(#clip0)">
+        <path
+          opacity="0.815"
+          fillRule="evenodd"
+          clipRule="evenodd"
+          d="M66.0183 0.162993C66.5596 0.0932787 67.0535 0.202111 67.5 0.489524C67.6646 4.73312 67.7196 8.97801 67.6646 13.2242C71.9465 13.1697 76.2269 13.2242 80.5061 13.3875C80.8532 13.8407 80.9078 14.3305 80.6707 14.8569C76.3353 19.1563 72.0001 23.4554 67.6646 27.7548C63.1645 27.8636 58.6648 27.9726 54.1646 28.0814C53.0672 29.1697 51.9694 30.2583 50.872 31.3467C58.8264 40.644 60.6374 51.0384 56.3049 62.5303C50.1018 74.7788 40.0591 80.4931 26.1768 79.6732C15.1286 78.0755 7.28112 72.2525 2.63416 62.2038C-1.86562 49.683 0.603891 38.7442 10.0427 29.3875C21.0182 20.9414 32.6522 19.9619 44.9451 26.4487C46.521 27.4668 48.0027 28.6097 49.3903 29.8773C50.3781 28.8977 51.3659 27.9181 52.3537 26.9385C52.3649 22.3364 52.5845 17.765 53.0122 13.2242C57.4142 8.91369 61.7493 4.55973 66.0183 0.162993ZM65.3598 3.75483C65.5824 7.47793 65.802 11.233 66.0183 15.0201C69.7499 15.1289 73.4818 15.2379 77.2134 15.3467C73.7011 18.8298 70.1891 22.3125 66.6768 25.7956C62.7273 25.9589 58.7761 26.0134 54.8232 25.9589C54.7682 22.0389 54.8232 18.1205 54.9878 14.2038C58.5117 10.7638 61.969 7.28071 65.3598 3.75483ZM25.5183 24.3263C34.0506 23.4283 41.5142 25.7685 47.9086 31.3467C46.3172 32.9248 44.7255 34.5032 43.1342 36.0814C35.4632 29.9867 27.2865 29.2794 18.6037 33.9589C10.1948 40.146 7.50601 48.2547 10.5366 58.2854C14.9238 67.6729 22.3323 71.8636 32.7622 70.8569C41.7437 69.1341 47.2862 63.8551 49.3903 55.0201C50.597 48.4317 49.0053 42.6084 44.6159 37.5507C46.2072 35.9726 47.7989 34.3942 49.3903 32.8161C56.5581 41.1475 58.3141 50.5081 54.6586 60.8977C48.1496 74.1117 37.558 79.4995 22.8842 77.061C11.4734 73.5821 4.72337 66.0174 2.63416 54.3671C2.11688 38.181 9.74504 28.1672 25.5183 24.3263ZM28.1525 32.8161C33.2617 32.7449 37.7618 34.3233 41.6525 37.5507C40.0466 39.253 38.3453 40.8311 36.5488 42.2854C31.0671 38.9107 25.9088 39.3463 21.0732 43.5916C16.9277 49.5854 17.5312 55.0818 22.8842 60.0814C28.7524 63.3085 33.966 62.4921 38.5244 57.6324C41.421 53.0871 41.366 48.5702 38.3598 44.0814C39.8263 42.2998 41.4177 40.6126 43.1342 39.0201C48.8904 46.4507 49.2197 54.0699 44.122 61.8773C36.4579 70.1104 27.842 71.2533 18.2744 65.3058C11.0763 58.7919 9.48492 51.1184 13.5 42.2854C16.9119 36.867 21.7963 33.7107 28.1525 32.8161ZM27.8232 41.9589C30.5571 41.6565 32.972 42.3638 35.0671 44.0814C32.9268 46.2038 30.7866 48.3263 28.6464 50.4487C28.3711 51.6977 28.865 52.1875 30.1281 51.9181C32.2683 49.7956 34.4086 47.6732 36.5488 45.5507C39.7111 50.3396 39.1075 54.6391 34.7378 58.4487C29.9414 60.9754 25.7159 60.2678 22.061 56.3263C18.7923 49.4476 20.713 44.6587 27.8232 41.9589Z"
+          fill={color}
+        />
+      </g>
+      <defs>
+        <clipPath id="clip0">
+          <rect width="81" height="80" fill="white" />
+        </clipPath>
+      </defs>
+    </svg>
+  );
+}

diff --git a/src/shared/ui/Icon/LampIcon.tsx b/src/shared/ui/Icon/LampIcon.tsx
@@ -1,0 +1,26 @@
+export default function LampIcon({
+  color = '#094A54',
+  size = 80,
+  style = {},
+  ...props
+}) {
+  return (
+    <svg
+      width={size}
+      height={size}
+      viewBox="0 0 90 90"
+      fill="none"
+      xmlns="http://www.w3.org/2000/svg"
+      style={style}
+      {...props}
+    >
+      <path
+        opacity="0.898"
+        fillRule="evenodd"
+        clipRule="evenodd"
+        d="M29.0809 8.31656C39.6279 8.2836 50.175 8.31656 60.7216 8.41544C64.0017 9.09205 65.7815 11.1025 66.0609 14.4469C65.8871 17.1364 64.5689 19.015 62.1058 20.0829C60.3423 20.3625 58.5625 20.4614 56.7665 20.3795C56.8622 37.722 56.7633 55.0585 56.4699 72.3888C54.7316 78.1152 50.8754 81.1473 44.9013 81.4855C38.9271 81.1473 35.0709 78.1152 33.3327 72.3888C33.0392 55.0585 32.9403 37.722 33.036 20.3795C31.24 20.4614 29.4602 20.3625 27.6967 20.0829C24.8067 18.8197 23.5213 16.6113 23.8405 13.4582C24.5229 10.6332 26.2697 8.91937 29.0809 8.31656ZM29.0809 9.89859C39.6279 9.86563 50.175 9.89859 60.7216 9.99747C62.6441 10.4038 63.8637 11.5574 64.38 13.4582C64.6234 16.4462 63.2722 18.259 60.3261 18.8964C50.0429 19.0283 39.7597 19.0283 29.4764 18.8964C26.1771 18.1687 24.8917 16.1583 25.6202 12.8649C26.2974 11.2944 27.4509 10.3056 29.0809 9.89859ZM34.6181 20.3795C41.4736 20.3795 48.3289 20.3795 55.1845 20.3795C55.2175 23.3467 55.1845 26.313 55.0856 29.2785C54.3094 28.6759 53.5512 28.0496 52.8114 27.3998C51.5511 26.682 50.2329 26.5501 48.8563 27.0043C47.9431 27.5877 47.086 28.247 46.2855 28.9818C45.467 29.5466 44.6102 29.6127 43.7147 29.1796C42.9237 28.5205 42.1327 27.8612 41.3417 27.2021C39.8601 26.5137 38.41 26.5795 36.9911 27.3998C36.2331 28.0261 35.4749 28.6522 34.7169 29.2785C34.6181 26.313 34.585 23.3467 34.6181 20.3795ZM38.5731 28.2897C39.2536 28.2504 39.9127 28.3492 40.5507 28.5863C41.3417 29.2455 42.1327 29.9048 42.9237 30.5639C44.2421 31.223 45.5604 31.223 46.8788 30.5639C47.6698 29.9048 48.4608 29.2455 49.2518 28.5863C49.8922 28.3158 50.5515 28.25 51.2294 28.3886C52.1426 28.972 52.9997 29.6313 53.8002 30.3661C54.2253 30.6452 54.6869 30.8101 55.1845 30.8605C55.2175 44.3738 55.1845 57.8869 55.0856 71.4001C53.7652 76.7078 50.3703 79.5424 44.9013 79.9035C41.099 79.7664 38.1656 78.1185 36.1012 74.9596C35.5967 74.0826 35.2012 73.1599 34.9147 72.1911C34.6212 58.4215 34.5223 44.6447 34.6181 30.8605C35.2491 30.7434 35.8423 30.5127 36.3978 30.1684C37.0443 29.4211 37.7695 28.7948 38.5731 28.2897Z"
+        fill={color}
+      />
+    </svg>
+  );
+}

diff --git a/src/shared/components/HeroBanner/HeroBanner.tsx b/src/shared/components/HeroBanner/HeroBanner.tsx
@@ -61,7 +61,7 @@ export const HeroBanner: React.FC = () => {
   };
 
   return (
-    <div className="relative w-full h-[500px] sm:h-[500px] md:h-[480px] lg:h-[550px] rounded-2xl overflow-hidden mb-6 sm:mb-8 md:mb-40 mt-4">
+    <div className="relative w-full h-[500px] sm:h-[500px] md:h-[480px] lg:h-[700px] rounded-2xl overflow-hidden mb-6 sm:mb-8 md:mb-40 mt-4">
       {slidesArray.length === 0 ? (
         <div className="absolute inset-0 w-full h-full bg-dark-bg flex items-center justify-center">
           <p className="text-white text-xl">Слайды не загружены</p>
@@ -87,7 +87,7 @@ export const HeroBanner: React.FC = () => {
               <SwiperSlide key={`slide-${index}`} className="w-full">
                 <div className="relative w-full h-full">
                   {/* Фоновое изображение с позиционированием 50% справа */}
-                  <div className="absolute inset-0 w-full">
+                  <div className="absolute inset-0 w-full h-full">
                     <div className="relative w-full h-full">
                       <Image
                         src={slide.image}

diff --git a/src/shared/layout/Footer/Footer.tsx b/src/shared/layout/Footer/Footer.tsx
@@ -7,6 +7,7 @@ import { useTranslation } from '@/src/hooks/useTranslation';
 import { translations } from './translations';
 import { CONTACT_INFO } from '@/src/shared/constants/contact';
 import { TelegramIcon, InstagramIcon, WhatsapppIcon, FacebookIcon } from '../../ui/Icon';
+import MuscleIcon from '../../ui/Icon/MuscleIcon';
 
 // Types for translation items
 interface LinkItem {
